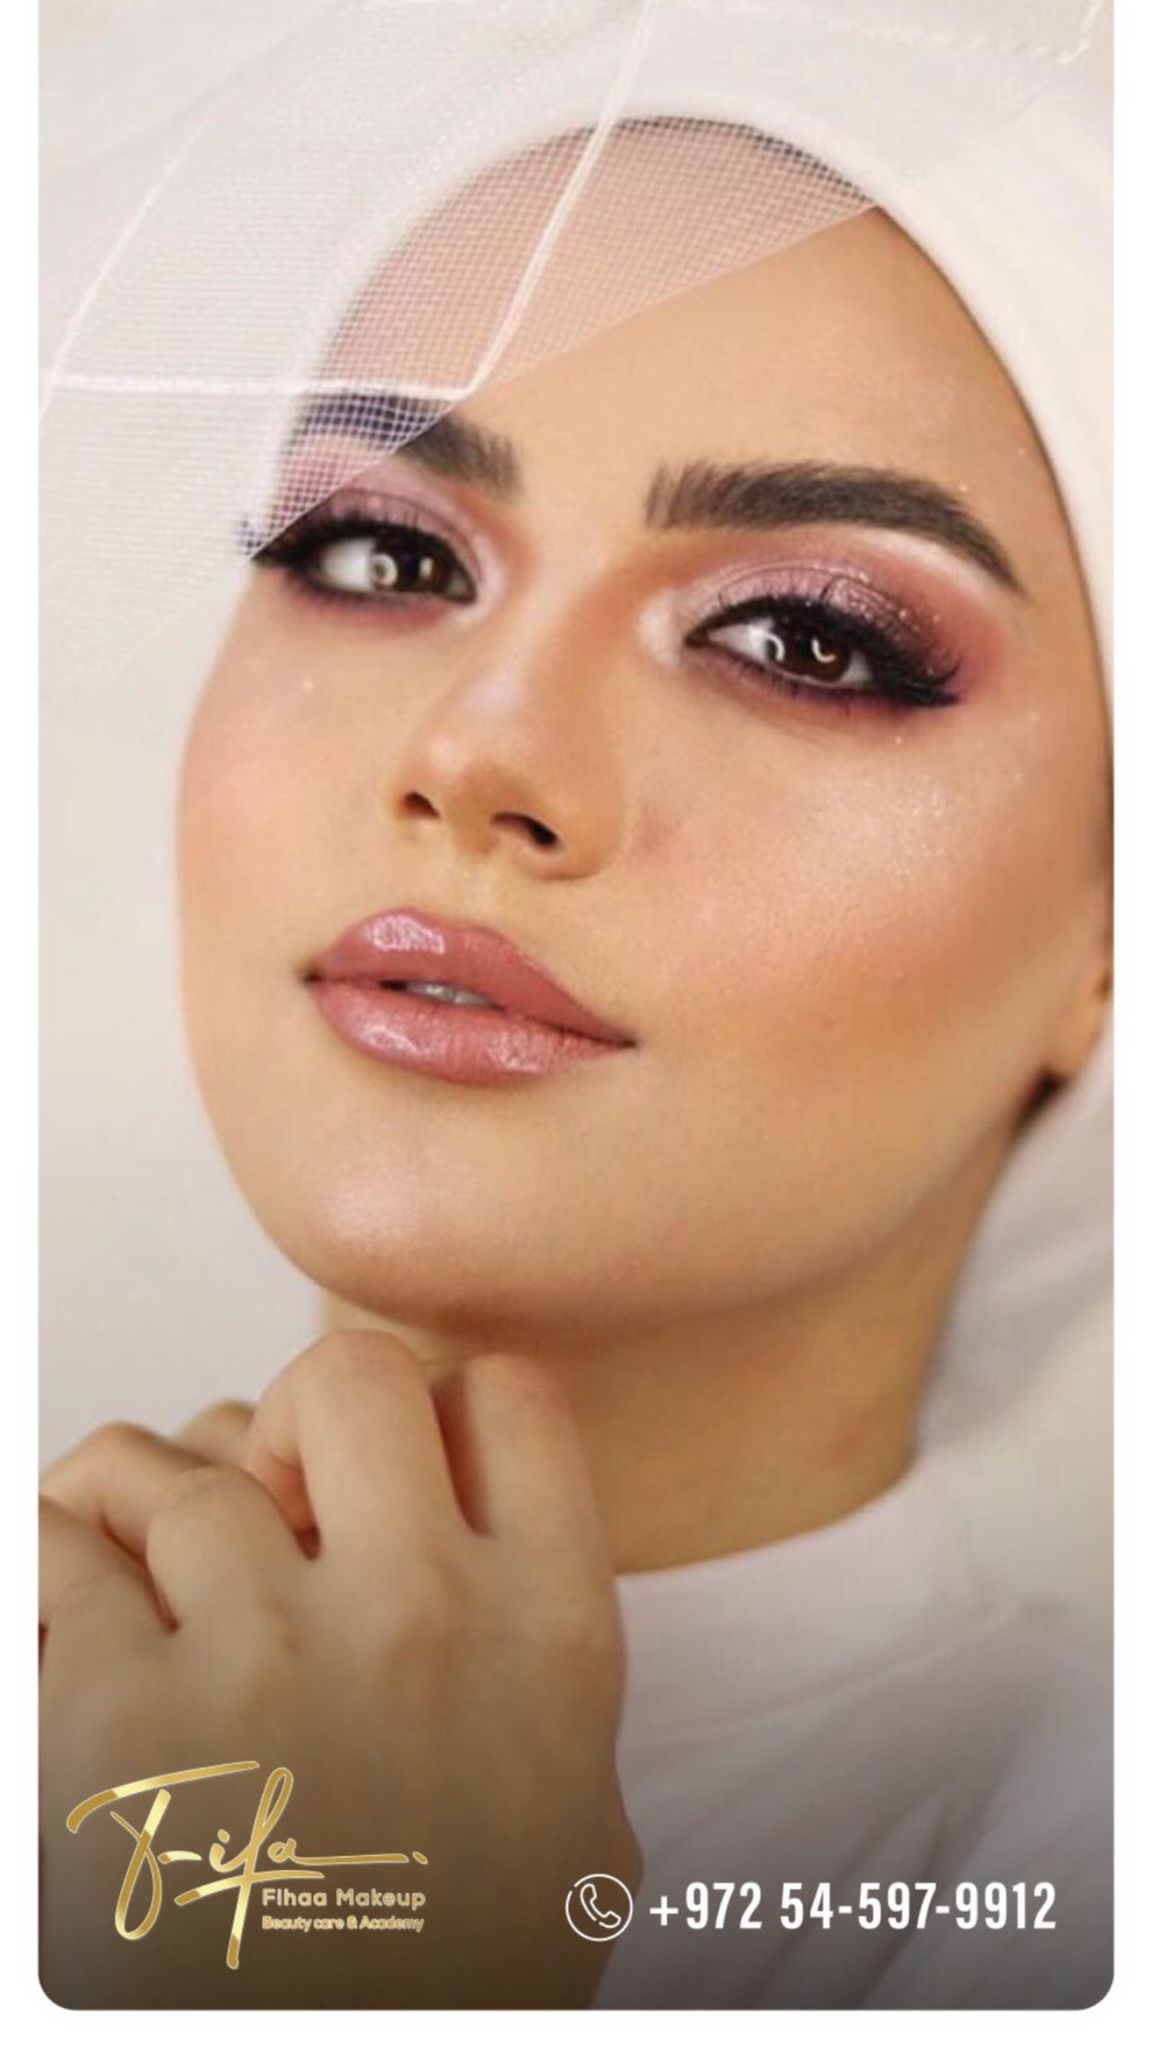
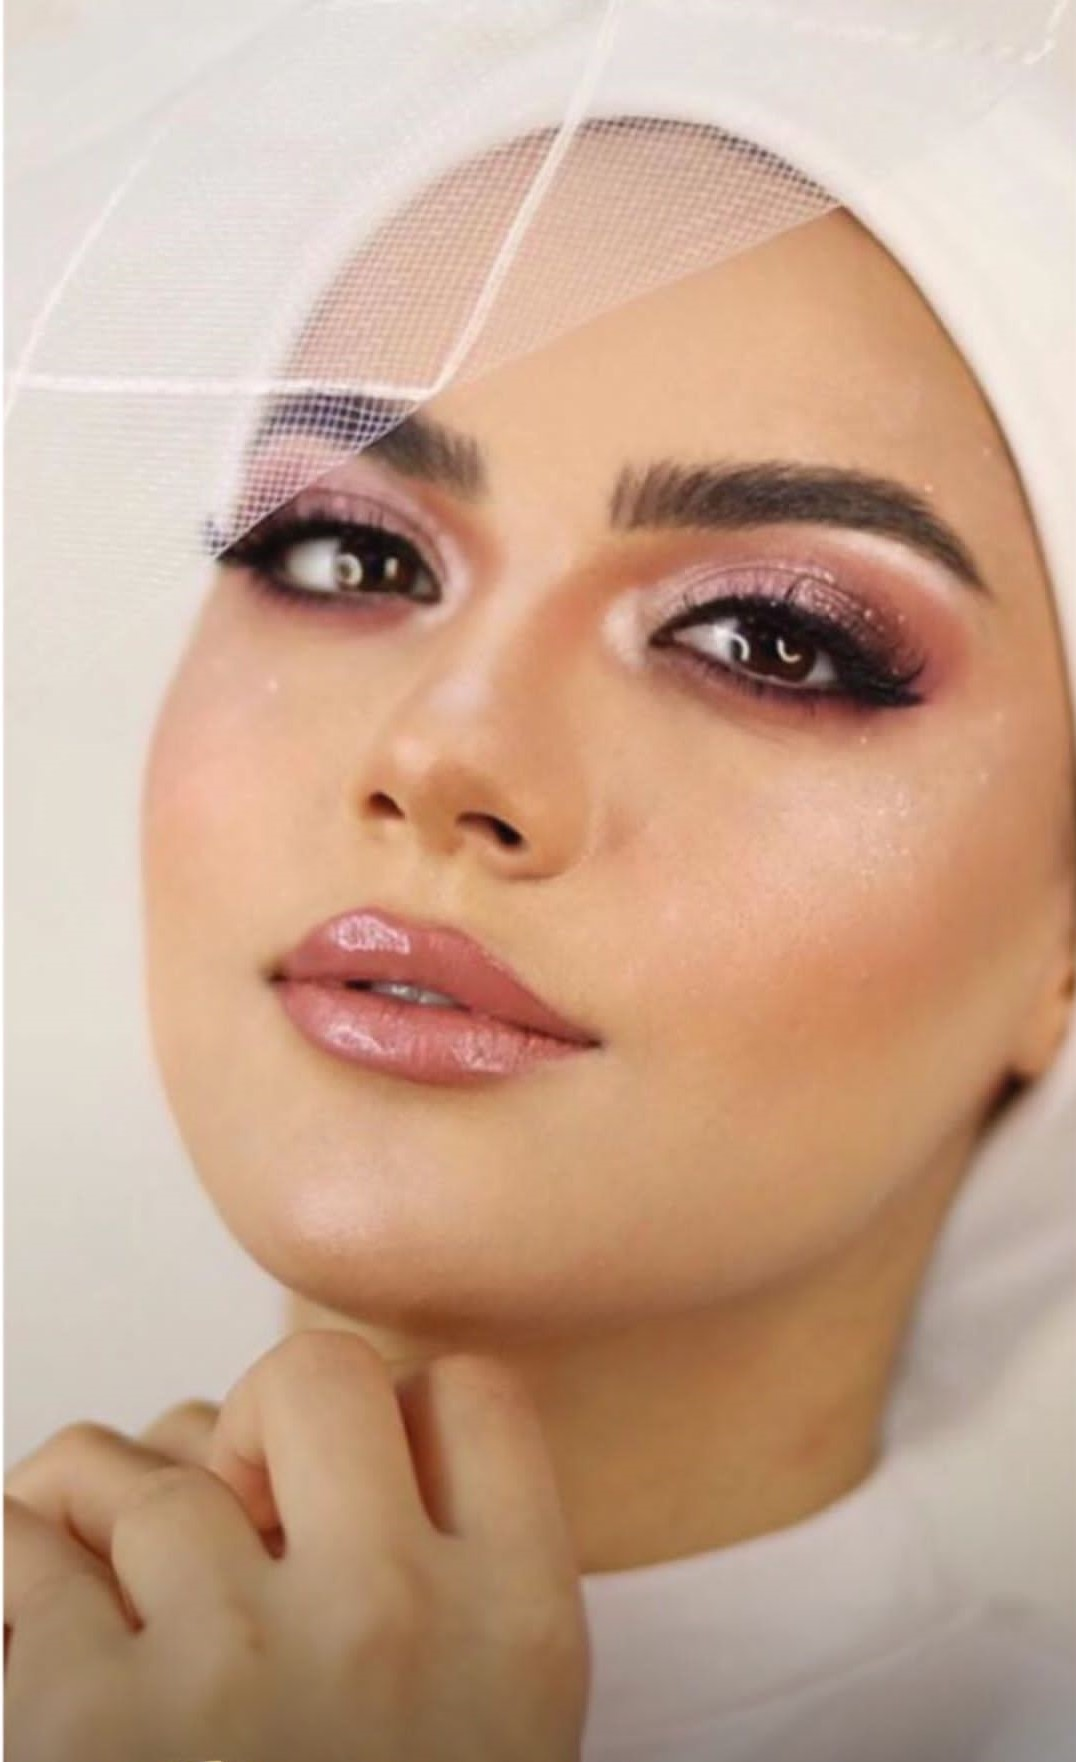
update

diff --git a/public/css/styles.css b/public/css/styles.css
@@ -6,6 +6,22 @@
     font-family: 'IBM Plex Sans Arabic', sans-serif;
     font-family: 'Noto Sans Arabic', sans-serif;
 }
+/* .container{
+    margin: 0 !important;
+    padding: 0 !important;
+}
+.row{
+    margin: 0 !important;
+    padding: 0 !important;
+} */
+.galaryCon{
+    margin: 0 !important;
+    padding: 0 !important;
+}
+.galaryRow{
+    margin: 0 !important;
+    padding: 0 !important;
+}
 .image2{
     width: 100%;
     border-radius: 20px;
@@ -105,6 +121,7 @@ justify-content: center;
 .imgDetails{
     border-radius: 50%;
     border: 5px solid #E1C16E;
+    width: 500px;
 }
 
 .product{
@@ -137,7 +154,7 @@ h1{
 
 .CategoryImage{
     width: 100%;
-    height: 250px;
+    height: 300px;
     border-radius: 5px;
 }
 .category{
@@ -177,17 +194,35 @@ position: absolute;
 
 }
 .GalaryPhoto{
-    width: 100%;
-    height: 400px;
+    /* width: 100%; */
+    width: 400px;
+    height: 420px;
     border-radius: 10px;
 }
 .DIF_CON{
     margin-top:40px ;
 }
-
+.CategoryPhotos{
+    justify-content: space-between;
+    display: flex;
+}
 @media screen and (max-width: 1000px){
 .IMG_CON{
 margin-top: 20px;
+}
+.CategoryPhotos{
+    justify-content: center;
+    display: flex;
+}
+.SlidPhoto{
+    height: 200px;
+    
+}
+.imgDetails{
+    width: 350px;
+}
+.gallery{
+    display: none;
 }
 
 }

diff --git a/resources/views/home.blade.php b/resources/views/home.blade.php
@@ -34,6 +34,21 @@
   href="https://cdnjs.cloudflare.com/ajax/libs/mdb-ui-kit/6.4.0/mdb.min.css"
   rel="stylesheet"
 />
+
+<link 
+  href="https://cdnjs.cloudflare.com/ajax/libs/font-awesome/6.0.0/css/all.min.css" 
+  rel="stylesheet" 
+/> 
+<!-- Google Fonts --> 
+<link 
+  href="https://fonts.googleapis.com/css?family=Roboto:300,400,500,700&display=swap" 
+  rel="stylesheet" 
+/> 
+<!-- MDB --> 
+<link 
+  href="https://cdnjs.cloudflare.com/ajax/libs/mdb-ui-kit/6.4.0/mdb.min.css" 
+  rel="stylesheet" 
+/>
     
      <link href="https://fonts.googleapis.com/css2?family=Caveat&display=swap" rel="stylesheet">
 
@@ -53,7 +68,7 @@
 
   <!-- nav bar -->
 <section class="NavBar" dir="rtl">
-  <nav class="navbar navbar-expand-lg bg-body-tertiary">
+  <nav class="navbar navbar-expand-lg bg-white">
     <div class="container-fluid">
       <a class="navbar-brand" href="#"><img class="logo" src="{{asset('images/staticimg/logo.png')}}" alt=""></a>
       <button class="navbar-toggler" type="button" data-bs-toggle="collapse" data-bs-target="#navbarSupportedContent" aria-controls="navbarSupportedContent" aria-expanded="false" aria-label="Toggle navigation">
@@ -83,7 +98,8 @@
   <!-- first section -->
 
 <!-- Carousel wrapper -->
-    <!-- <div id="carouselBasicExample" class="carousel slide carousel-fade" data-mdb-ride="carousel">
+
+    <div id="carouselBasicExample" class="carousel slide carousel-fade" data-mdb-ride="carousel">
       <div class="carousel-indicators">
         <button
           type="button"
@@ -142,7 +158,7 @@
         <span class="carousel-control-next-icon" aria-hidden="true"></span>
         <span class="visually-hidden">Next</span>
       </button>
-    </div> -->
+    </div>
 <!-- Carousel wrapper -->
 
   <!-- end first section  -->
@@ -168,51 +184,59 @@
   </section>
   <!-- end second section  -->
 <!-- product section -->
-
-<section class="galary mb-5 pt-3"  dir="rtl">
-  <div class="container d-flex justify-content-center ">
-    <div class="row">
-    <p class="categories text-center">صور</p>
-  <div class="CategoryPhotos col-12 row  d-flex justify-content-around align-items-around">
-
-<div class="col-md-3 col-12 IMG_CON" data-aos="fade-down"
-     data-aos-easing="linear"
-     data-aos-duration="1500" >
-      <img src="{{asset('images/staticimg/home1.jpeg')}}" alt="img3" class="GalaryPhoto"  >
-</div>
-<div class="col-md-3 col-12  IMG_CON DIF_CON" data-aos="fade-up"
-     data-aos-duration="3000">
-      <img src="{{asset('images/staticimg/home2.jpeg')}}" alt="img3" class="GalaryPhoto"  >
-
-</div>
-    <div class="col-md-3 col-12 IMG_CON" data-aos="fade-down"
-     data-aos-easing="linear"
-     data-aos-duration="1500">
-      <img src="{{asset('images/staticimg/home3.jpeg')}}" alt="img3" class="GalaryPhoto"  >
-
-      </div>
-    </div>
-
-    </div>
-  </div>
-</div>
+<section class="galary mb-5 pt-3"  dir="rtl"> 
+<div class=" d-flex justify-content-center galaryCon"> 
+<div class="row galaryRow"> 
+  <p class="categories text-center">صور</p> 
+  <div class="CategoryPhotos col-12 row "> 
+ 
+    <div class="col-md-4 col-12 IMG_CON d-flex justify-content-center" data-aos="fade-down" 
+     data-aos-easing="linear" 
+     data-aos-duration="1500"> 
+      <img src="{{asset('images/staticimg/home1.jpeg')}}" alt="img3" class="GalaryPhoto"  > 
+    </div> 
+ 
+    <div class="col-md-4 col-10 IMG_CON DIF_CON d-flex justify-content-center" data-aos="fade-up" 
+     data-aos-duration="3000"> 
+      <img src="{{asset('images/staticimg/home2.jpeg')}}" alt="img3" class="GalaryPhoto gallery "  > 
+ 
+    </div> 
+ 
+    <div class="col-md-4 col-10 IMG_CON d-flex justify-content-center" data-aos="fade-down" 
+     data-aos-easing="linear" 
+     data-aos-duration="1500"> 
+      <img src="{{asset('images/staticimg/home3.jpeg')}}" alt="img3" class="GalaryPhoto  gallery"  > 
+ 
+    </div> 
+     
+  </div> 
+ 
+     
+  </div> 
+   
+</div> 
 </section>
+
+
+
+<!-- //////////////////////////////////////////////////////// -->
+
 
 <section id="service">
   <div class="container" dir="rtl">
     <div class="row">
       <p class="categories">خدماتنا</p>
-      <div class="col-lg-3 col-md-6 col-12 mb-3 "  data-aos="fade-up"
+      <div class="col-lg-3 col-md-6 col-11 mb-3 "  data-aos="fade-up"
      data-aos-duration="3000">
         <div class="category">
-        <a href="{{ route('category', 'makeup') }}" >
-          <img src="{{asset('images/staticimg/c1.jpg')}}" alt="img3" class="CategoryImage">
+        <a href="{{ route('category', 'makeup') }}" class="d-flex justify-content-center">
+          <img src="{{asset('images/staticimg/home3.jpeg')}}" alt="img3" class="CategoryImage">
          <p class="CategoryWord"> 
           مكياج</p>
         </a>
         </div>
       </div>
-      <div class="col-lg-3 col-md-6 col-12 mb-3 mt-3 "  data-aos="fade-up"
+      <div class="col-lg-3 col-md-6 col-11 mb-3 mt-3 "  data-aos="fade-up"
      data-aos-duration="3000">
       <div class="category">
       <a href="{{ route('category', 'cure_humans') }}"> 
@@ -222,7 +246,7 @@
             </a> 
         </div>
         </div>
-        <div class="col-lg-3 col-md-6 col-12 mb-3 "  data-aos="fade-up"
+        <div class="col-lg-3 col-md-6 col-11 mb-3 "  data-aos="fade-up"
      data-aos-duration="3000">
         <div class="category">
         <a href="{{ route('category', 'makeup_courses') }}">
@@ -233,7 +257,7 @@
           </a> 
         </div>
         </div>
-        <div class="col-lg-3 col-md-6 col-12 mb-3 mt-3 "  data-aos="fade-up"
+        <div class="col-lg-3 col-md-6 col-11 mb-3 mt-3 "  data-aos="fade-up"
      data-aos-duration="3000">
         <div class="category">
         <a href="{{ route('category', 'products') }}"> 
@@ -350,6 +374,9 @@
       integrity="sha384-ENjdO4Dr2bkBIFxQpeoTz1HIcje39Wm4jDKdf19U8gI4ddQ3GYNS7NTKfAdVQSZe"
       crossorigin="anonymous"
     ></script>
-
+    <script 
+  type="text/javascript" 
+  src="https://cdnjs.cloudflare.com/ajax/libs/mdb-ui-kit/6.4.0/mdb.min.js" 
+></script>
 </body>
 </html>

diff --git a/resources/views/categories/PostDetal.blade.php b/resources/views/categories/PostDetal.blade.php
@@ -21,16 +21,30 @@
      <link href="https://fonts.googleapis.com/css2?family=Caveat&display=swap" rel="stylesheet">
   <!-- <link rel="stylesheet" type="text/css" href="{{ asset('css/styles.css') }}"> -->
   <!-- Font Awesome Icons -->
-  <link rel="stylesheet" type="text/css" href="{{ asset('css/styles.css') }}">
+  
 
   <!-- <link rel="stylesheet" type="text/css" href="resources/css/home.css"> -->
 
-
+  <link 
+  href="https://cdnjs.cloudflare.com/ajax/libs/font-awesome/6.0.0/css/all.min.css" 
+  rel="stylesheet" 
+/> 
+<!-- Google Fonts --> 
+<link 
+  href="https://fonts.googleapis.com/css?family=Roboto:300,400,500,700&display=swap" 
+  rel="stylesheet" 
+/> 
+<!-- MDB --> 
+<link 
+  href="https://cdnjs.cloudflare.com/ajax/libs/mdb-ui-kit/6.4.0/mdb.min.css" 
+  rel="stylesheet" 
+/>
+<link rel="stylesheet" type="text/css" href="{{ asset('css/styles.css') }}"/>
 </head>
 <body class="hold-transition sidebar-mini">
   <!-- nav bar -->
 <section class="NavBar" dir="rtl">
-  <nav class="navbar navbar-expand-lg bg-body-tertiary">
+  <nav class="navbar navbar-expand-lg bg-white">
     <div class="container-fluid">
       <a class="navbar-brand" href="#"><img class="logo" src="{{asset('images/staticimg/logo.png')}}" alt=""></a>
       <button class="navbar-toggler" type="button" data-bs-toggle="collapse" data-bs-target="#navbarSupportedContent" aria-controls="navbarSupportedContent" aria-expanded="false" aria-label="Toggle navigation">
@@ -55,7 +69,7 @@
                   data-aos-anchor="#example-anchor"
                   data-aos-offset="500"
                   data-aos-duration="500">
-            <img width="500" class="imgDetails"  src="{{asset('images/posts/'.$post->image)}} "/>
+            <img  class="imgDetails"  src="{{asset('images/posts/'.$post->image)}} "/>
             </div>
             <div class="row col-md-6 mb-3 col-12 d-flex  align-content-center"data-aos="fade-right"
                 data-aos-offset="300"
@@ -69,11 +83,9 @@
                   {{$post["price"]}}دولار    
                 </p>
                 <form>
-<<<<<<< HEAD:resources/views/PostDetal.blade.php
-                <button type="button" class="btn m-2 Mybtn" onclick="sendMessage()">احجز الان</button>
-=======
+
                 <button type="button" class="btn m-2 Mybtn" onclick="sendMessage()">إحجز الأن</button>
->>>>>>> 65eb55ad4c3ba32a8c93cedb5cc5ae89bfdba1b0:resources/views/categories/PostDetal.blade.php
+
                </form>
             </div>
         </div>
@@ -158,7 +170,10 @@ function sendMessage() {
       integrity="sha384-ENjdO4Dr2bkBIFxQpeoTz1HIcje39Wm4jDKdf19U8gI4ddQ3GYNS7NTKfAdVQSZe"
       crossorigin="anonymous"
     ></script>
-
+    <script 
+  type="text/javascript" 
+  src="https://cdnjs.cloudflare.com/ajax/libs/mdb-ui-kit/6.4.0/mdb.min.js" 
+></script>
 </body>
 </html>
 

diff --git a/resources/views/categories/index.blade.php b/resources/views/categories/index.blade.php
@@ -18,12 +18,29 @@
      <link rel="preconnect" href="https://fonts.gstatic.com" crossorigin>
      <link rel="stylesheet" type="text/css" href=" https://cdnjs.cloudflare.com/ajax/libs/font-awesome/6.4.0/css/all.min.css">
      <link rel="preconnect" href="https://fonts.googleapis.com">
+     <link href="https://fonts.googleapis.com/css?family=Roboto:300,400,500,700&display=swap" rel="stylesheet" />
+
      <link rel="preconnect" href="https://fonts.gstatic.com" crossorigin>
     <link href="https://fonts.googleapis.com/css2?family=Assistant:wght@300&family=Cairo&family=Caveat&family=IBM+Plex+Sans+Arabic:wght@500&family=Noto+Sans+Arabic:wght@400;900&display=swap" rel="stylesheet">
     <!-- Font Awesome -->
 <link
   href="https://cdnjs.cloudflare.com/ajax/libs/font-awesome/6.0.0/css/all.min.css"
   rel="stylesheet"
+/>
+
+<link 
+  href="https://cdnjs.cloudflare.com/ajax/libs/font-awesome/6.0.0/css/all.min.css" 
+  rel="stylesheet" 
+/> 
+<!-- Google Fonts --> 
+<link 
+  href="https://fonts.googleapis.com/css?family=Roboto:300,400,500,700&display=swap" 
+  rel="stylesheet" 
+/> 
+<!-- MDB --> 
+<link 
+  href="https://cdnjs.cloudflare.com/ajax/libs/mdb-ui-kit/6.4.0/mdb.min.css" 
+  rel="stylesheet" 
 />
 <!-- Google Fonts -->
 <link
@@ -272,5 +289,10 @@
       integrity="sha384-ENjdO4Dr2bkBIFxQpeoTz1HIcje39Wm4jDKdf19U8gI4ddQ3GYNS7NTKfAdVQSZe"
       crossorigin="anonymous"
     ></script>
+
+    <script 
+  type="text/javascript" 
+  src="https://cdnjs.cloudflare.com/ajax/libs/mdb-ui-kit/6.4.0/mdb.min.js" 
+></script>
 </body>
 </html>

diff --git a/resources/views/layouts/partials/nav.blade.php b/resources/views/layouts/partials/nav.blade.php
@@ -39,7 +39,7 @@
      
 
       <div class="image">
-          <img src="{{asset('dist/img/user.jpg')}}" class="img-circle elevation-2" alt="User Image" width="200px" height="200px">
+          <img src="{{asset('dist/img/dashboard.jpeg')}}" class="img-circle elevation-2" alt="User Image" width="200px" height="200px">
         </div>
         <ul class="navbar-nav ms-auto">
                         <!-- Authentication Links -->
